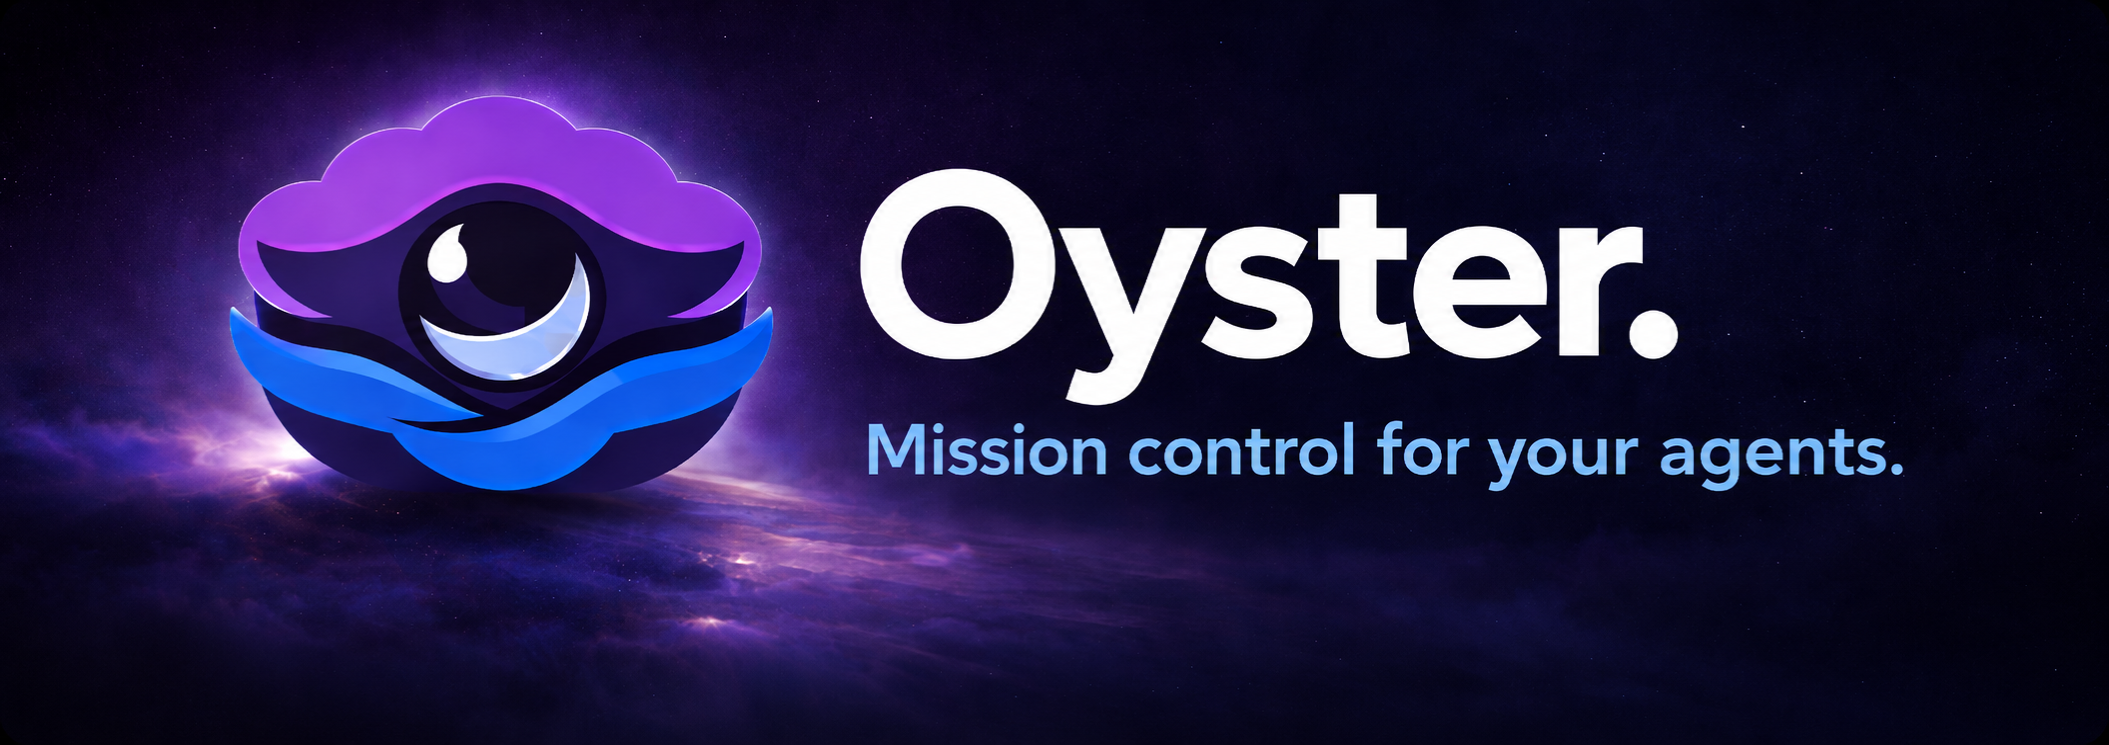
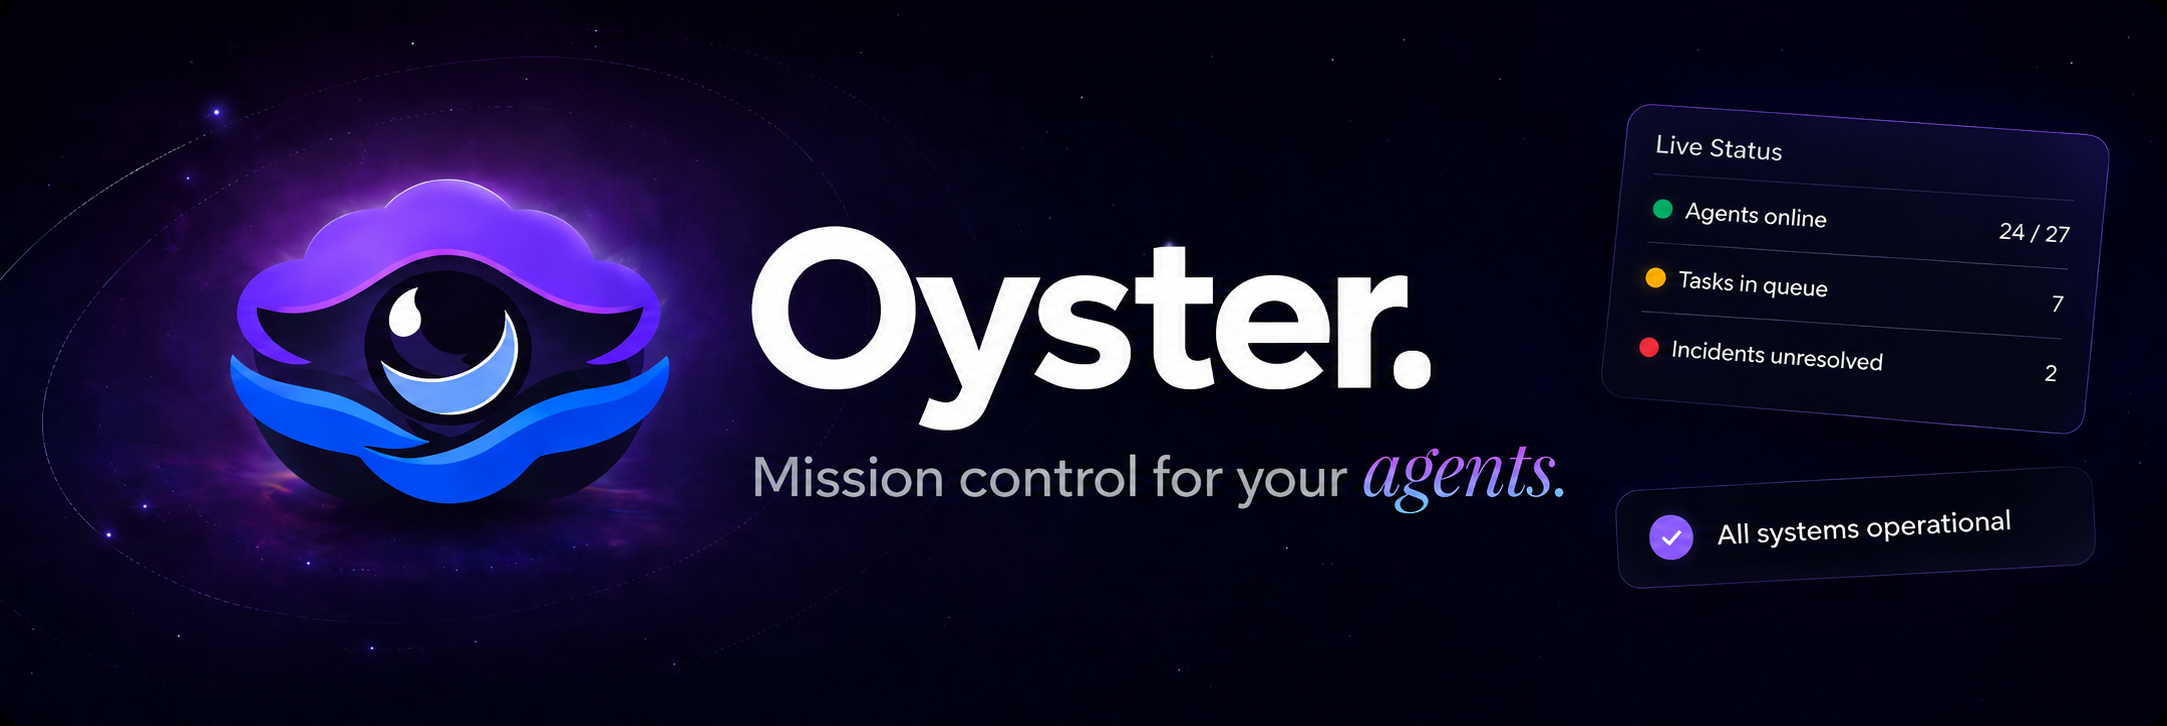
Fix leaderboard 403 + CRT on all screens (#510)
* fix(rocket): address PR #509 round-3 review

Round-2 over-tightened the `/api/leaderboard/start` origin check to
require an allowed Origin header. Browsers don't send Origin on
same-origin GETs, so the iframe's token-mint requests were being
403'd — players never got a token, so the score POST never fired.

Same-origin POST/OPTIONS DO send Origin (browsers always do for
mutating verbs), so the strict POST guard stays — curl / hot-link
attempts still can't submit. /start now uses the same lenient policy
as the leaderboard GET: reject only if Origin is PRESENT and not in
the allow-list.

* fix(rocket): CRT overlay covers all screens, not just gameplay

The scanline + vignette layers were at z-index 1/2, sitting below the
splash (z:3), gameover (z:4), and celebrate (z:5) panels. So the CRT
look only kicked in once the canvas became visible. Bumping the overlay
to z:10 and vignette to z:11 puts them on top of every panel —
boot/loading screen, INSERT COIN title, leaderboard view, game over,
and the new-high-score flag all get the scanlines now too.

pointer-events: none stays so the panels underneath still receive input.

* docs: update README hero banner to new mission-control artwork

Refreshed Oyster wordmark + tagline + "Live Status" panel composition
on the cosmic background.

* fix(rocket): address PR #509 round-3 review

Reword the Origin-check comment to be honest about its scope. A
determined attacker can spoof the Origin header from curl, so this
[…]

Pull request: Fix leaderboard 403 + CRT on all screens
Two small fixes for the rocket-ship easter egg shipped in #509.

## Summary

- **Fixes the leaderboard never persisting to the cloud**: round-2 over-tightened the `/api/leaderboard/start` origin check to require an allowed Origin header, but browsers don't send Origin on same-origin GETs. The iframe's token-mint was being 403'd, so the score POST never fired. Tail logs showed only GETs to `/start` and zero POSTs even with qualifying scores. Same-origin POST/OPTIONS DO send Origin, so the strict guard on mutations stays — curl / hot-link attempts can still not submit.
- **CRT scanlines + vignette now cover every screen**, not just gameplay. Moved the overlay layers from z:1/2 → z:10/11 so they sit above splash / gameover / celebrate panels.

## Test plan
- [ ] Open https://oyster.to, click red/yellow dot, play to game over, save initials, refresh page — your score should be on the cloud leaderboard.
- [ ] Boot screen, title screen, leaderboard, game over, and new-high-score flag all show the CRT scanlines.
- [ ] curl POST without Origin still 403s.

🤖 Generated with [Claude Code](https://claude.com/claude-code)

diff --git a/infra/leaderboard-worker/src/worker.ts b/infra/leaderboard-worker/src/worker.ts
@@ -134,7 +134,17 @@ export default {
 
     const origin = req.headers.get("origin");
     const isMutation = req.method === "POST" || req.method === "OPTIONS";
-    if (isMutation || isStart) {
+    // POST/OPTIONS: REQUIRE an allowed Origin. Browsers always send Origin
+    // on mutating verbs (even same-origin), so this won't false-reject the
+    // iframe's score submissions. It blocks non-browser requests that
+    // don't send Origin by default — a determined attacker can spoof the
+    // header from curl, so this is one layer of several (HMAC token +
+    // rate limit + score cap), not a standalone anti-abuse defence.
+    //
+    // GET (leaderboard read AND /start token mint): only reject if Origin is
+    // PRESENT and not in the allow-list. Same-origin GETs from the page don't
+    // send Origin at all, so requiring it would 403 our own iframe.
+    if (isMutation) {
       if (!isAllowedOrigin(origin)) return new Response("Forbidden", { status: 403 });
     } else if (origin !== null && !isAllowedOrigin(origin)) {
       return new Response("Forbidden", { status: 403 });

diff --git a/docs/rocket-ship.html b/docs/rocket-ship.html
@@ -54,13 +54,16 @@
   }
 
   /* CRT scanlines + RGB sub-pixel overlay */
+  /* CRT layers sit ABOVE the splash/gameover/celebrate panels so the scanlines
+     + vignette read on every screen, not just gameplay. pointer-events:none
+     means they don't intercept input from the panels below. */
   .overlay {
     height: 100%;
     left: 0;
     position: absolute;
     top: 0;
     width: 100%;
-    z-index: 1;
+    z-index: 10;
     display: flex;
     align-items: center;
     justify-content: center;
@@ -90,7 +93,7 @@
       rgba(0, 0, 0, 0.22) 80%,
       rgba(0, 0, 0, 0.45) 100%);
     pointer-events: none;
-    z-index: 2;
+    z-index: 11;
     border-radius: 14px;
   }
 